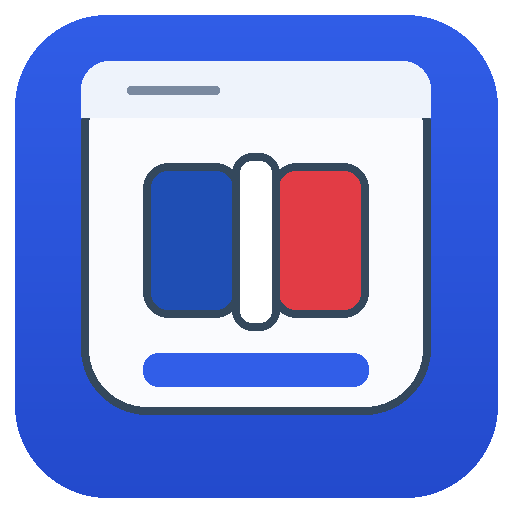
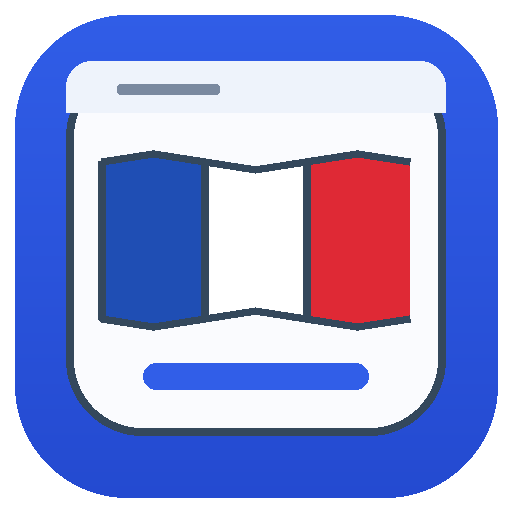
Add files via upload

diff --git a/css/style.css b/css/style.css
@@ -349,7 +349,6 @@ body:not(.app-ready) .app{
 .brand-logo{
   width:54px;height:54px;flex:0 0 54px;border-radius:16px;
   box-shadow:0 10px 22px rgba(49,94,232,.18);
-  animation:logoFloat 4s ease-in-out infinite;
 }
 .brand-copy h1{
   position:relative;
@@ -427,7 +426,6 @@ body:not(.app-ready) .app{
 .splash-logo{
   width:min(108px,24vw);height:auto;
   filter:drop-shadow(0 18px 30px rgba(6,18,61,.28));
-  animation:logoFloat 3.6s ease-in-out infinite;
 }
 .splash-kicker{
   margin:14px 0 8px;
@@ -436,22 +434,15 @@ body:not(.app-ready) .app{
 }
 .splash-title{
   margin:0;
-  font-size:clamp(1.5rem,5vw,2.2rem);
+  font-size:clamp(1.55rem,5vw,2.25rem);
   line-height:1.08;
   letter-spacing:-.03em;
 }
-.splash-subtitle{
-  margin:10px 0 0;
-  font-size:1rem;
-  line-height:1.45;
-  opacity:.9;
-}
+.splash-subtitle{display:none}
 @keyframes splashPop{
   from{opacity:0;transform:translateY(18px) scale(.96)}
   to{opacity:1;transform:translateY(0) scale(1)}
 }
-@keyframes logoFloat{
-  0%,100%{transform:translateY(0)}
   50%{transform:translateY(-4px)}
 }
 @keyframes fadeUp{
@@ -471,7 +462,7 @@ body:not(.app-ready) .app{
   82%{transform:translateX(130%)}
 }
 @media (prefers-reduced-motion: reduce){
-  .app,.controls,.session-strip,.typing-panel,#ratingActions,.secondary,.settings-panel-header,.card,.brand-logo,.splash-logo,.splash-inner{
+  .app,.controls,.session-strip,.typing-panel,#ratingActions,.secondary,.settings-panel-header,.card,.splash-inner{
     animation:none!important;
   }
   .card::after,.icon-button::after{display:none}
@@ -481,3 +472,5 @@ body:not(.app-ready) .app{
   .brand-logo{width:48px;height:48px;flex-basis:48px}
   .splash-subtitle{font-size:.94rem}
 }
+
+/* v1.15.1 — logo + splash fix */

diff --git a/index.html b/index.html
@@ -10,15 +10,14 @@
   <link rel="icon" href="icons/favicon.svg" type="image/svg+xml">
   <link rel="alternate icon" href="icons/favicon.ico">
   <link rel="apple-touch-icon" href="icons/icon-192.png">
-  <link rel="stylesheet" href="css/style.css?v=1.15.0">
+  <link rel="stylesheet" href="css/style.css?v=1.15.1">
 </head>
 <body>
   <div id="splash" class="splash-screen" aria-hidden="true">
     <div class="splash-inner">
       <img class="splash-logo" src="icons/logo-mark.svg" alt="" width="96" height="96">
       <p class="splash-kicker">FRANS TRAINER</p>
-      <h2 class="splash-title">Frans oefenen op jouw tempo</h2>
-      <p class="splash-subtitle">Snel, rustig en motiverend leren.</p>
+      <h2 class="splash-title">Gemakkelijk Frans oefenen</h2>
     </div>
   </div>
   <main class="app">
@@ -128,9 +127,9 @@
   </aside>
 
 
-  <script src="js/list-import.js?v=1.15.0"></script>
-  <script src="js/words.js?v=1.15.0"></script>
-  <script src="js/storage.js?v=1.15.0"></script>
-  <script src="js/app.js?v=1.15.0"></script>
+  <script src="js/list-import.js?v=1.15.1"></script>
+  <script src="js/words.js?v=1.15.1"></script>
+  <script src="js/storage.js?v=1.15.1"></script>
+  <script src="js/app.js?v=1.15.1"></script>
 </body>
 </html>

diff --git a/service-worker.js b/service-worker.js
@@ -1,4 +1,4 @@
-const CACHE="frans-trainer-v1-15-0";
+const CACHE="frans-trainer-v1-15-1";
 const FILES=["./","./index.html","./manifest.json","./css/style.css","./js/words.js","./js/storage.js","./js/app.js","./icons/icon-192.png","./icons/icon-512.png","./data/lists/index.json","./data/lists/basis.json","./data/lists/game-on.json","./data/lists/sport-action.json","./data/lists/music-live.json","./data/lists/my-crew.json","./data/lists/school-mode.json","./data/lists/snack-chill.json","./data/lists/style-check.json","./data/lists/online.json","./data/lists/on-the-go.json","./data/lists/weekend-vibes.json","./data/lists/home-chill.json","./data/lists/holiday-mode.json","./data/lists/fit-healthy.json","./data/lists/outdoor.json","./js/list-import.js","./data/templates/woordenlijst-voorbeeld.csv","./icons/logo-mark.svg","./icons/favicon.svg","./icons/favicon.ico","./icons/favicon-32.png","./icons/favicon-16.png","./icons/icon-moon.svg","./icons/icon-sun.svg","./icons/icon-settings.svg","./icons/icon-close.svg"];
 
 self.addEventListener("install",event=>{

diff --git a/js/app.js b/js/app.js
@@ -428,7 +428,7 @@ function setupSettingsPanel(){
 function hideSplash(){
   if(!splash||splash.dataset.hidden==="true")return;
   const elapsed=performance.now()-splashStarted;
-  const wait=Math.max(0,650-elapsed);
+  const wait=Math.max(0,2400-elapsed);
   window.setTimeout(()=>{
     splash.classList.add("splash-screen--hide");
     window.setTimeout(()=>{

diff --git a/js/words.js b/js/words.js
@@ -1,4 +1,4 @@
-const APP_VERSION="1.15.0";
+const APP_VERSION="1.15.1";
 let WORDS=[];
 let WORD_LISTS=[];
 let CURRENT_LIST_ID="basis";

diff --git a/CHANGELOG.md b/CHANGELOG.md
@@ -1,5 +1,14 @@
 # Changelog
 
+## v1.15.1 — Logo & Splash Fix
+- Nieuw statisch logo met golvend Frans vlagje
+- Bewegende logo-animatie verwijderd in header en splashscreen
+- Splashtekst verkort naar “Gemakkelijk Frans oefenen”
+- Splashscreen blijft langer zichtbaar zodat de tekst leesbaar is, ook op telefoon
+- App-iconen en favicon afgestemd op het nieuwe logo
+- Cacheversie verhoogd naar v1.15.1
+
+
 ## v1.15.0 — Stability Fix
 - PWA/offline-cache hersteld voor bestanden met `?v=` cache-busting
 - Alle appversies gelijkgetrokken naar v1.15.0
